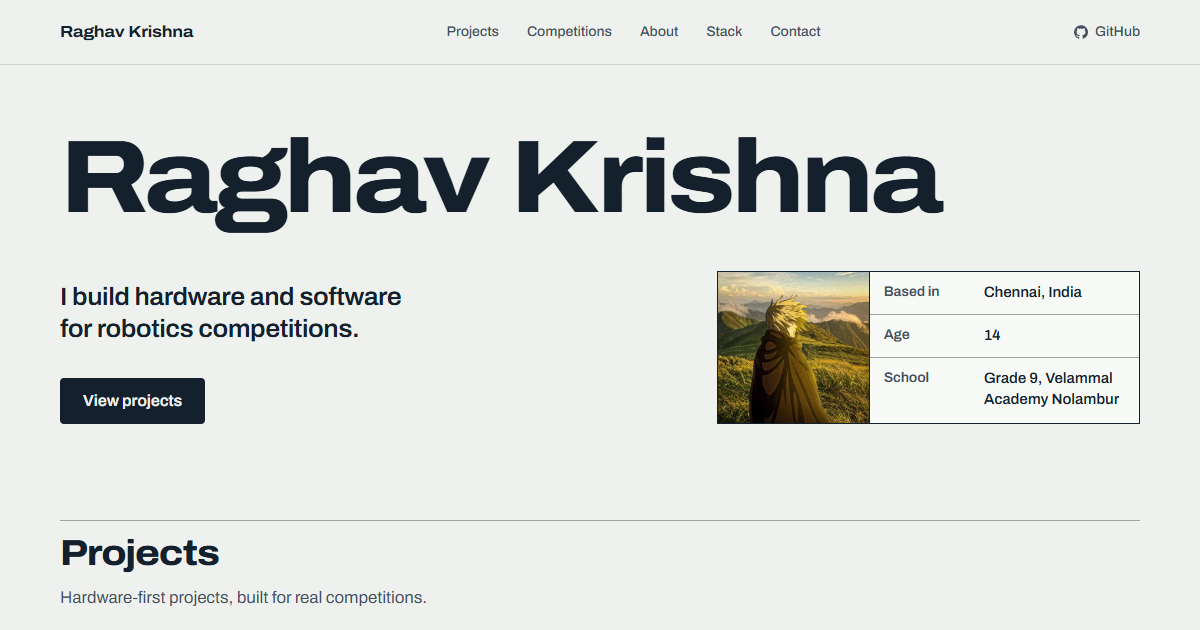
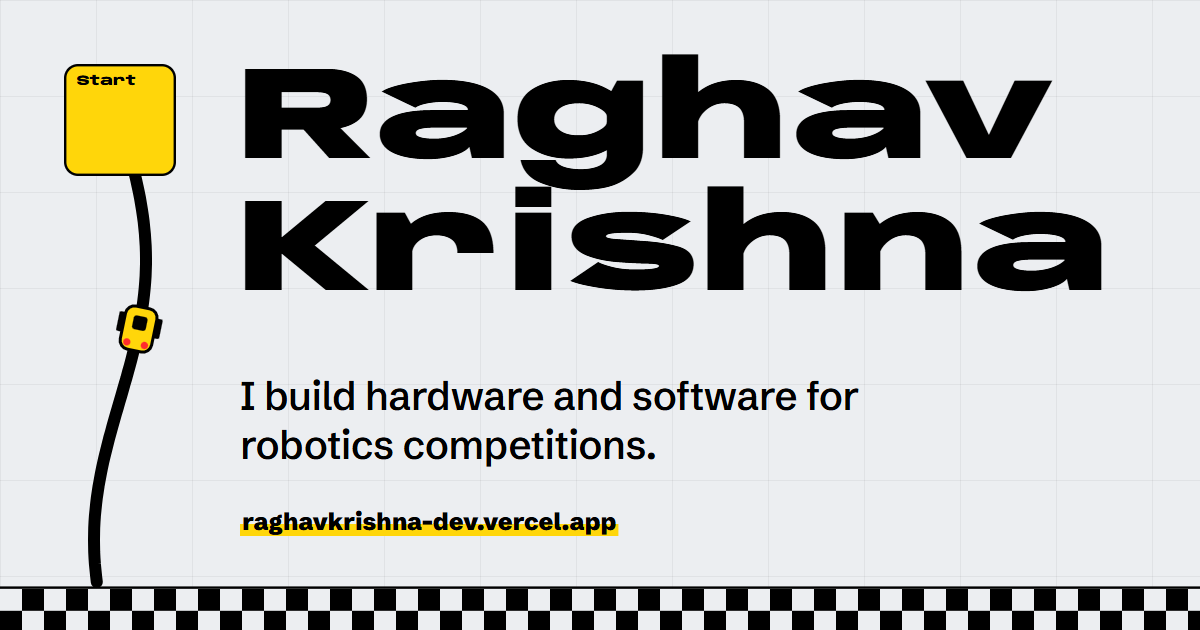
Polish: new social preview, focus ring on the scoreboard, roomier entry heads
- Redraw public/og.png in the arena design (it still showed the old datasheet).
- Yellow focus ring inside the always-black scoreboard; the default black ring
  vanished on it in light mode.
- Quieter scrollbar for the contribution chart.
- Widen the project entry heading column and trim its type so long names such
  as CRASH take three lines instead of six.

diff --git a/src/index.css b/src/index.css
@@ -379,16 +379,16 @@ ul, ol { list-style: none; }
 .page-lead { margin-top: 28px; color: var(--ink-2); font-size: 22px; line-height: 1.4; text-wrap: pretty; }
 
 .entry {
-  display: grid; grid-template-columns: minmax(0, 4fr) minmax(0, 8fr); column-gap: 48px;
+  display: grid; grid-template-columns: minmax(0, 5fr) minmax(0, 7fr); column-gap: 48px;
   padding: 36px 0 80px; border-top: 3px solid var(--ink);
 }
 .entry-head { align-self: start; position: sticky; top: calc(var(--nav-h) + 28px); }
 .entry-name {
   font-family: var(--font-display);
-  font-size: clamp(1.5rem, 2.6vw, 2.25rem); font-weight: 860; font-stretch: 135%;
-  letter-spacing: -0.02em; line-height: 1.02; text-wrap: balance;
+  font-size: clamp(1.375rem, 2.3vw, 2.125rem); font-weight: 860; font-stretch: 125%;
+  letter-spacing: -0.02em; line-height: 1.05; text-wrap: balance;
 }
-.entry-featured .entry-name { font-size: clamp(1.75rem, 3.2vw, 2.75rem); }
+.entry-featured .entry-name { font-size: clamp(1.625rem, 2.9vw, 2.5rem); }
 .entry-result { margin-top: 18px; font-size: 17px; font-weight: 700; line-height: 1.4; }
 /* A marker stroke through the lower half of the text; losses and personal work stay plain. */
 .tone-win {
@@ -433,7 +433,7 @@ ul, ol { list-style: none; }
 .contribution-total { font-family: var(--font-display); font-weight: 860; font-stretch: 130%; font-variant-numeric: tabular-nums; }
 .contribution-figure { margin-top: 24px; }
 /* The chart keeps its natural width and scrolls inside its own region. */
-.contribution-chart-scroll { overflow-x: auto; padding-bottom: 6px; }
+.contribution-chart-scroll { overflow-x: auto; padding-bottom: 6px; scrollbar-width: thin; scrollbar-color: var(--ink-3) transparent; }
 .contribution-chart { display: block; max-width: none; height: auto; overflow: visible; }
 .contribution-axis-label { fill: var(--ink-3); font-family: var(--font); font-size: 9px; }
 .contribution-cell { fill: var(--cal-0); }
@@ -462,6 +462,7 @@ ul, ol { list-style: none; }
   padding-right: calc(var(--gutter) + 8px);
   border-right: none; border-radius: 16px 0 0 16px;
 }
+.record-scroll :focus-visible { outline-color: var(--yellow); }
 .record-table { width: 100%; border-collapse: collapse; text-align: left; }
 .record-table th {
   padding: 16px 16px 12px 0; border-bottom: 1px solid var(--panel-rule);
